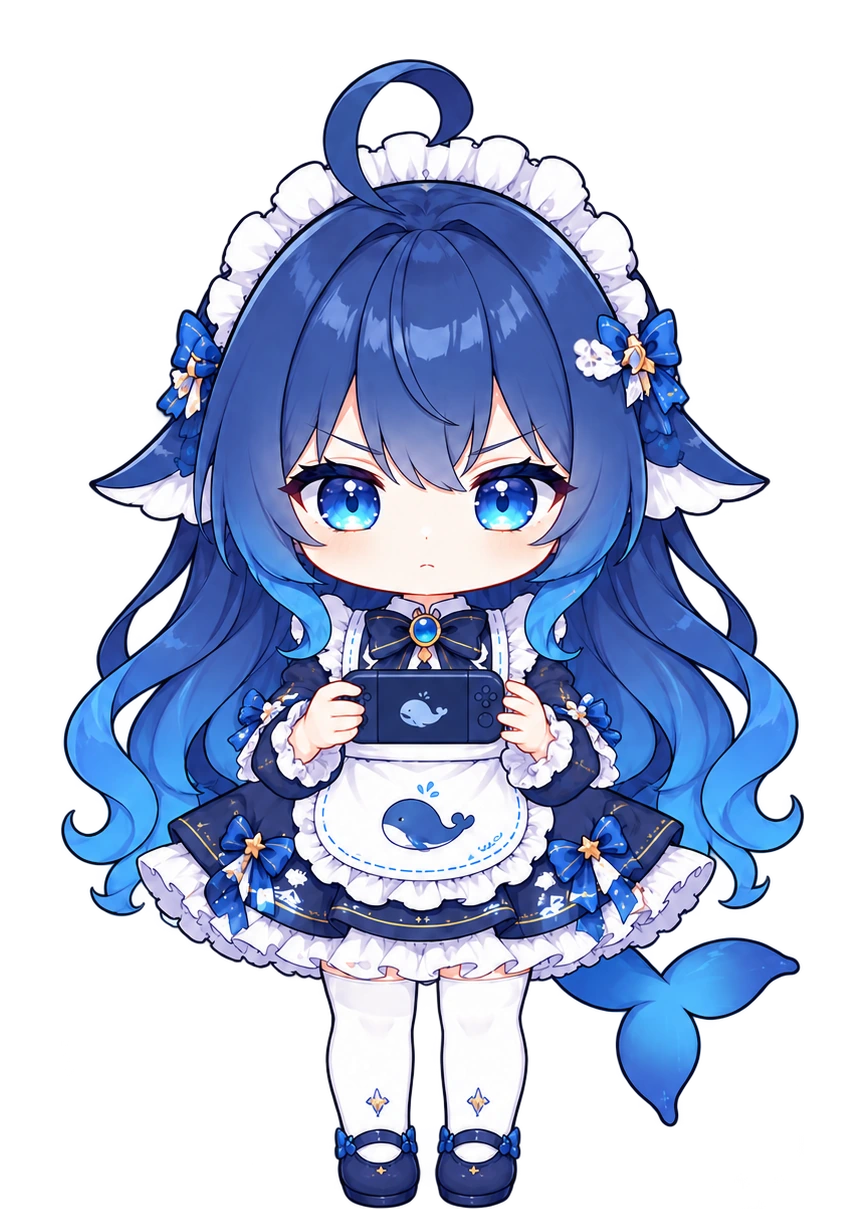
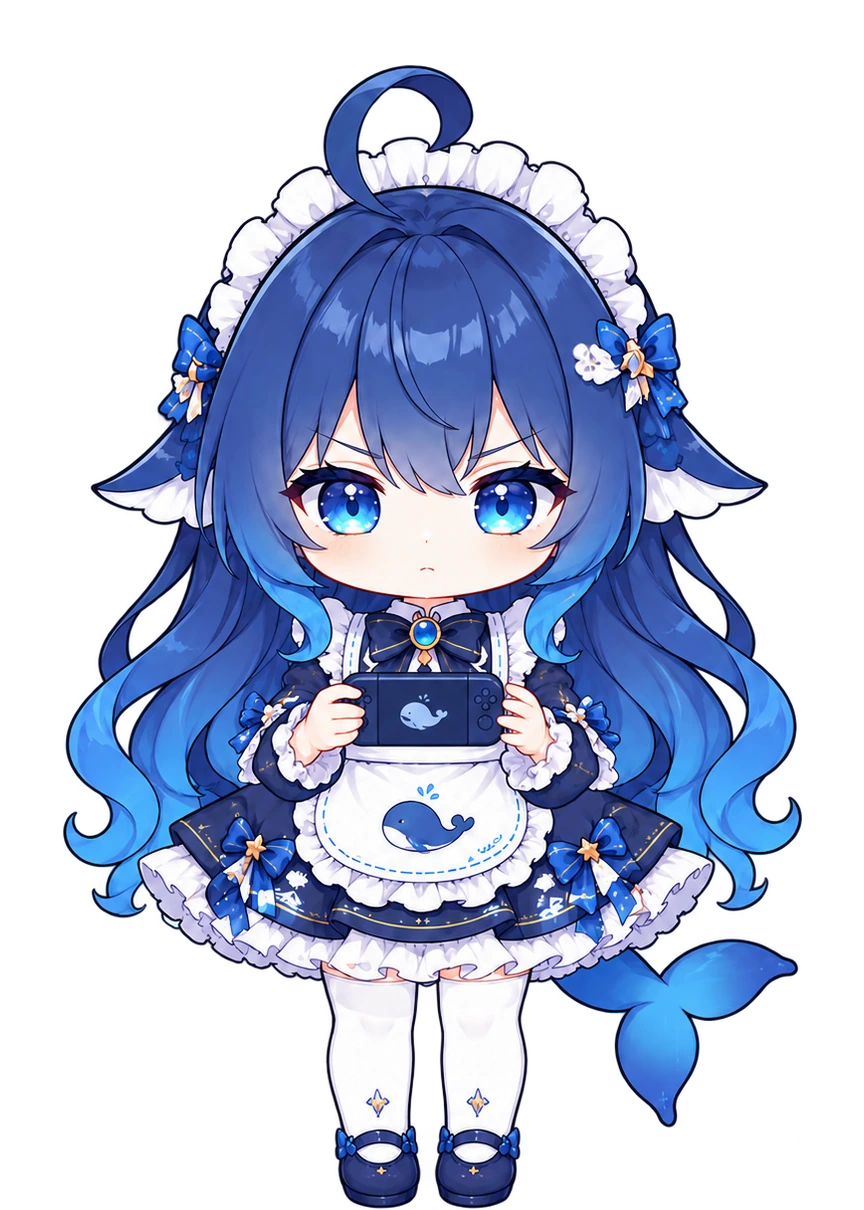
修正「玩游戏」第二段第 2 帧与第三段的角色偏大
用户反馈："玩游戏第二段的第二帧以及第三段桌宠偏大了，调整至和站立状态以及第一段一致"。

先量了证据（脚本同一套头宽算法，成品空间）：
  stand 525~530 ／ begin 525~533 ／ loop [539, 567] ／ stop 572~579
也就是美术在循环后半段与收尾段把角色画大了 7~9%，不是缩放参数错。

改法：三段都加 match_head_to: "stand" + match_head_per_frame（坐下收尾段用过
的逐帧归一化机制），把每帧头宽统一到站立基准 530px：

  begin 逐帧缩放 0.9944~1.0    → 头宽 525~530
  loop  逐帧缩放 0.9347~0.9833 → 头宽 529~529
  stop  逐帧缩放 0.9154~0.9266 → 头宽 529~531

为什么不用整体高度对齐：抬手/举掌机会改变包围盒，按高度会把"姿势不同"当成
"大小不同"，反而把角色缩坏（坐姿三段当时就是改用头宽才稳的）。

结果：脚底仍全部对齐 1208（画布 1210），切段不跳；六张对比图里显示尺度头宽
122~124px（改前 loop f2 是 132px）。

验证：npm test 25 组 261 条全绿；完整自测 316 PASS / 1 FAIL（既有"命中滞回"偶发）。

Changed region(s): [[0.0625, 0.0306, 0.9375, 0.9785], [0.7188, 0.8256, 0.8438, 0.9479], [0.0625, 0.581, 0.0938, 0.6421]]

diff --git a/scripts/dev/build-action-asset.py b/scripts/dev/build-action-asset.py
@@ -152,6 +152,13 @@ ACTIONS = {
         # 渲染进程按素材自身比例设帧高，多出来的高度向上溢出到气泡区。
         "canvas_height": 1210,
         "fps": 6,
+        # 用户反馈"第二段第 2 帧和第三段偏大"，实测头宽确认了：
+        #   stand 525~530 ／ begin 525~533 ／ loop 539,567 ／ stop 572~579
+        # 也就是美术在循环后半段和收尾段**把角色画大了 7~9%**。
+        # 用逐帧头宽归一化（与 sit-stop 同一套机制）把每帧头宽统一到站立的 530，
+        # 而不是按整体高度缩放 —— 举手/抬手会改变包围盒，按高度对齐会把"姿势"错当"大小"。
+        "match_head_to": "stand",
+        "match_head_per_frame": True,
         "note": "玩游戏（第一段：开始，播一遍）",
     },
     "game-loop": {
@@ -160,12 +167,16 @@ ACTIONS = {
         # ⚠ 用户指定第二段 **每秒 1 帧**。2 帧 → 每帧停在屏幕上 1 秒，一圈 2 秒。
         "fps": 1,
         "loop": True,
+        "match_head_to": "stand",
+        "match_head_per_frame": True,
         "note": "玩游戏（第二段：循环，1fps）",
     },
     "game-stop": {
         "raw_dir": os.path.join(ROOT, ".cache", "game-raw", "stop"),
         "canvas_height": 1210,
         "fps": 6,
+        "match_head_to": "stand",
+        "match_head_per_frame": True,
         "note": "玩游戏（第三段：收尾，播一遍回闲置）",
     },
 
